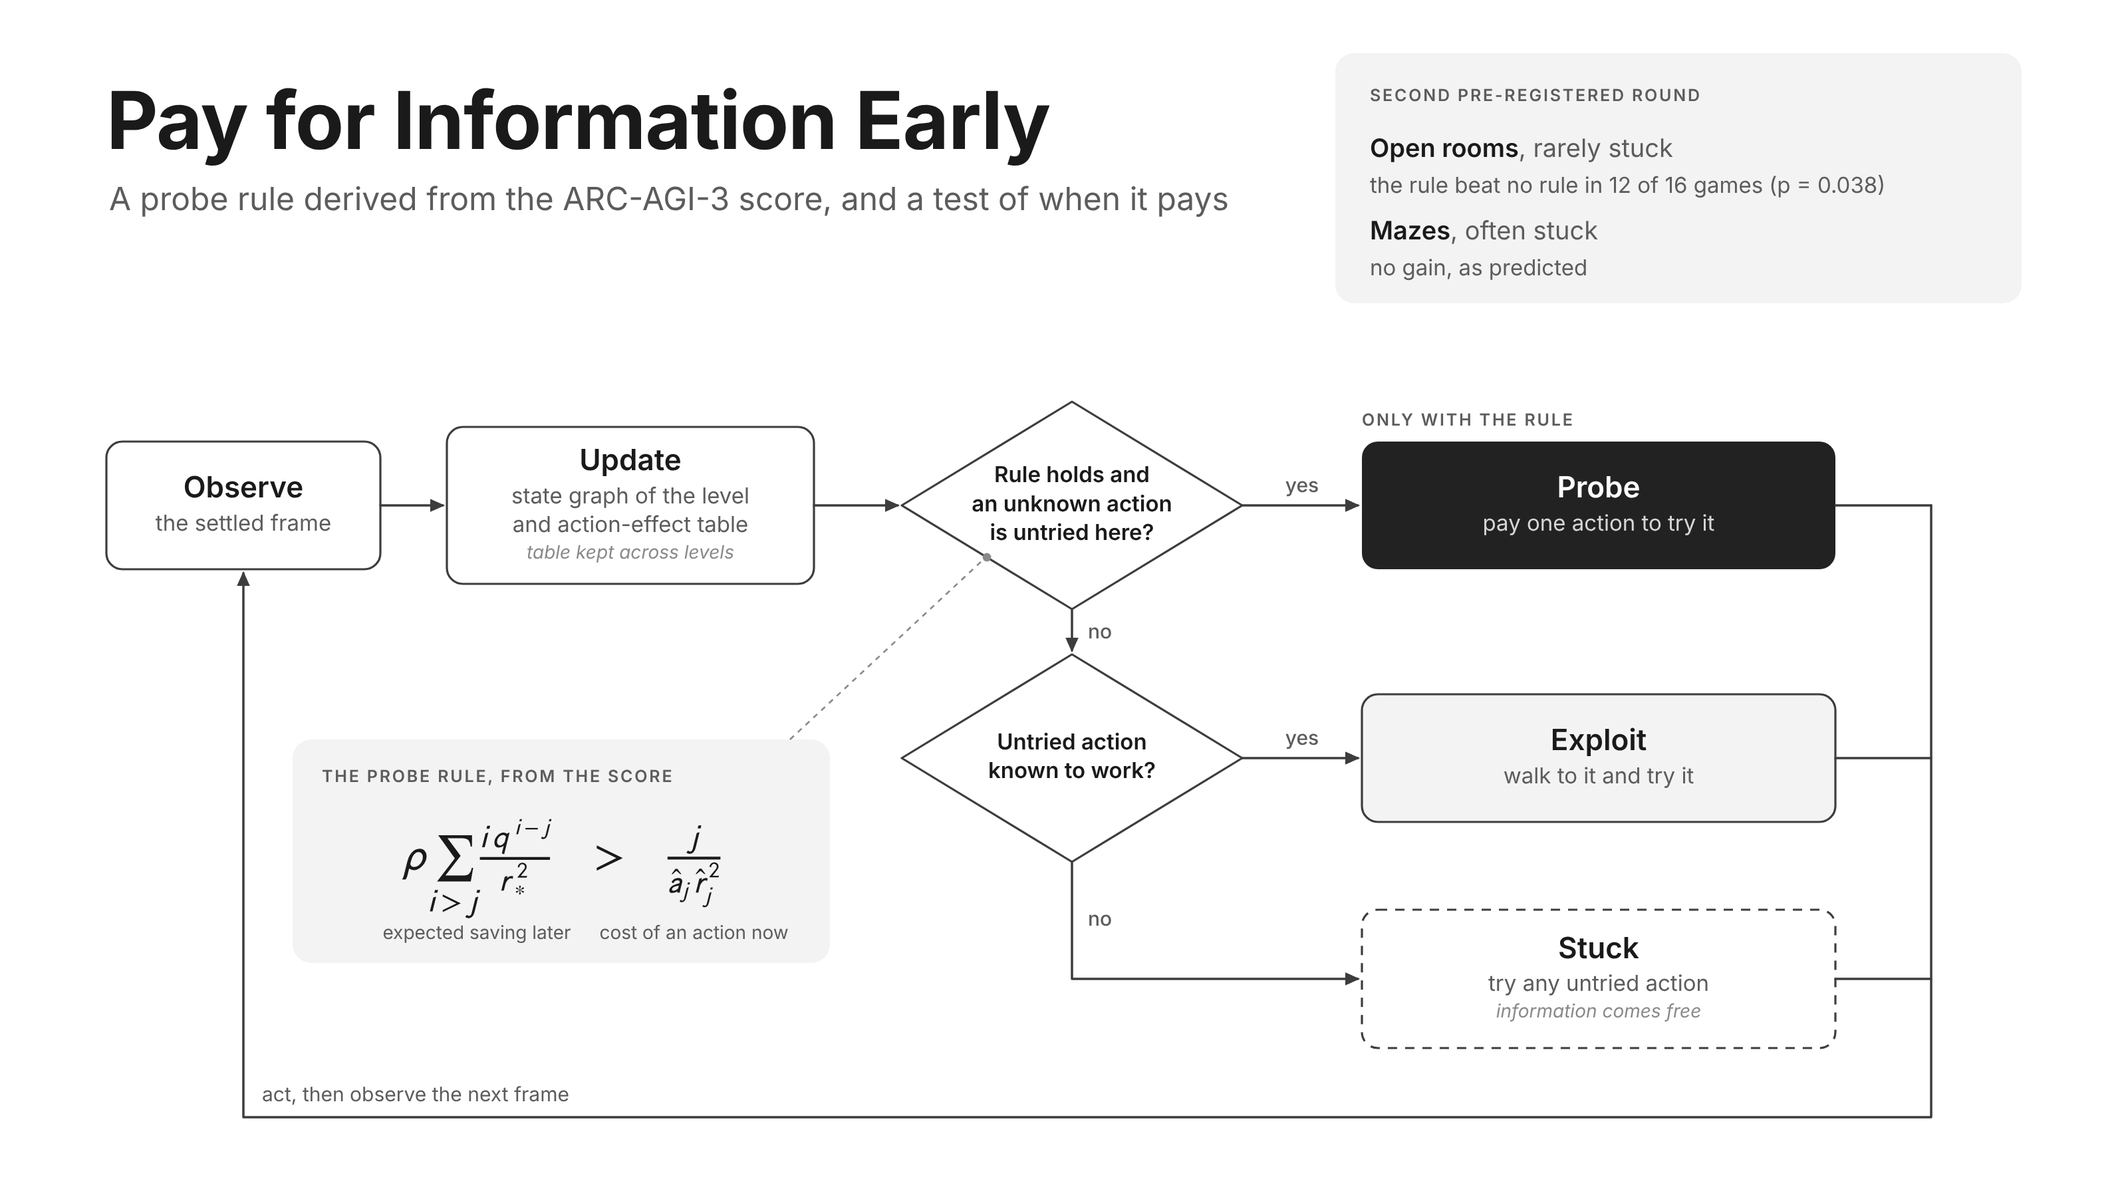
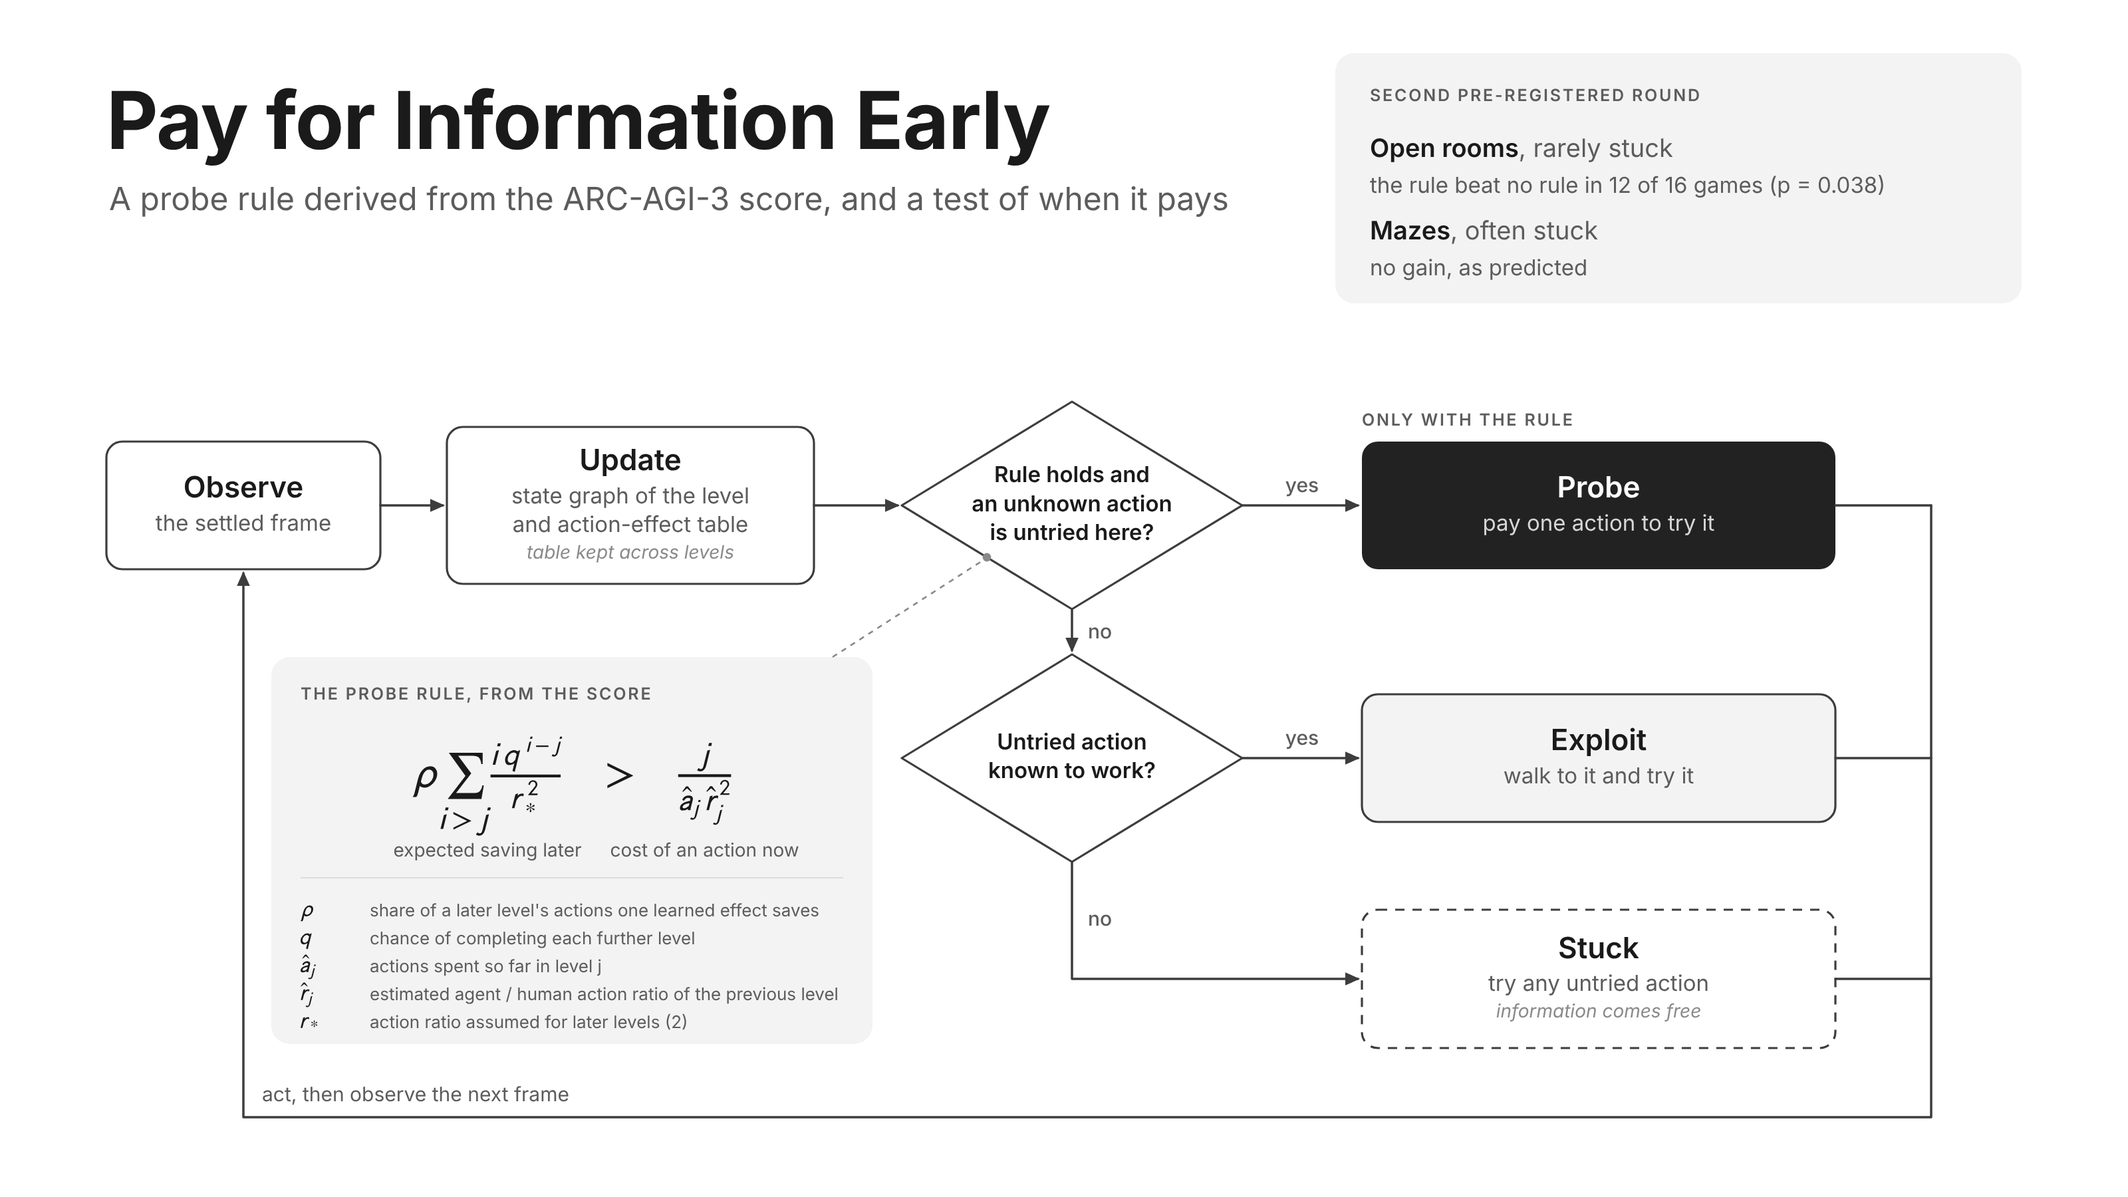
Add the technical appendix and a symbol legend to Figure 1
docs/appendix.md holds Appendices A to H that the paper cites, with the
C' spending breakdown, C1 against C, where the room gain came from, the
room sizes added outside the registered candidates, and how the
registration was kept. Figure 1 now defines every symbol of the rule.

Claude-Session: https://claude.ai/code/session_0148mrcjXrhuFDPAbLgMZrnR

Changed region(s): [[0.1562, 0.6222, 0.375, 0.8711], [0.1562, 0.56, 0.3125, 0.5911]]

diff --git a/figs/make_figure1.py b/figs/make_figure1.py
@@ -180,8 +180,17 @@ def build():
     rhs, rw, rt, rb = math_path(r"$\frac{j}{\hat{a}_j\,\hat{r}_j^{\,2}}$", 34)
     gap = 34
     total = lw + gap + gw + gap + rw
-    fx0, fy0, fh = 220, 556, 168
-    fw = 404
+    # symbols of the rule, defined under it so the figure stands alone
+    legend = [(r"$\rho$", "share of a later level's actions one learned effect saves"),
+              (r"$q$", "chance of completing each further level"),
+              (r"$\hat{a}_j$", "actions spent so far in level j"),
+              (r"$\hat{r}_j$", "estimated agent / human action ratio of the previous level"),
+              (r"$r_*$", "action ratio assumed for later levels (2)")]
+    row = 21
+    fx0, fy0, fw = 204, 494, 452
+    cap_y = fy0 + 150
+    rule_y = cap_y + 16
+    fh = rule_y - fy0 + 14 + row * len(legend) + 6
     el.append(box(fx0, fy0, fw, fh, fill=PANEL, stroke=None, rx=14))
     el.append(text(fx0 + 22, fy0 + 32, "THE PROBE RULE, FROM THE SCORE", 12.5, 600, INK2, spacing=1.4))
     x = fx0 + (fw - total) / 2
@@ -193,9 +202,14 @@ def build():
     x += gw + gap
     el.append(f'<path transform="translate({x:.1f},{base:.1f})" d="{rhs}" fill="{INK}"/>')
     rhs_c = x + rw / 2
-    cap_y = fy0 + fh - 18
     el.append(text(lhs_c, cap_y, "expected saving later", 14, 400, INK2, "middle"))
     el.append(text(rhs_c, cap_y, "cost of an action now", 14, 400, INK2, "middle"))
+    el.append(f'<path d="M{fx0 + 22} {rule_y} L{fx0 + fw - 22} {rule_y}" stroke="#dcdcdc" stroke-width="1"/>')
+    for k, (sym, desc) in enumerate(legend):
+        yb = rule_y + 14 + row * (k + 1) - 6
+        path, sw_, st, sb = math_path(sym, 17.5)
+        el.append(f'<path transform="translate({fx0 + 22:.1f},{yb:.1f})" d="{path}" fill="{INK}"/>')
+        el.append(text(fx0 + 74, yb, desc, 13, 400, INK2))
     # dashed leader to the diamond's lower-left edge
     ex, ey = dcx - hw / 2, y1 + hh / 2
     el.append(f'<path d="M{fx0 + fw - 30:.1f} {fy0:.1f} L{ex - 4:.1f} {ey + 3:.1f}" stroke="{MUTED}" '

diff --git a/docs/appendix.md b/docs/appendix.md
@@ -1,0 +1,100 @@
+# Technical appendix
+
+Appendix to *Pay for Information Early: a probe rule derived from the ARC-AGI-3 score, and a test of when it pays* (ARC Prize 2026 Paper Track). The paper cites these sections as Appendix A to H. Reference numbers follow the paper's list, repeated at the end.
+
+## A. Interaction protocol notes
+
+- Frames are grids up to 64x64 with values 0-15, and one response can carry several frames when the game animates before settling ([game schema](https://docs.arcprize.org/game-schema)). The agent plans on the settled frame and keeps transient frames as evidence.
+- On GAME_OVER only RESET is accepted ([actions](https://docs.arcprize.org/actions.md)). RESET after at least one action restarts the current level, while RESET with no action since the last level transition restarts the whole game, so two consecutive RESETs are forbidden ([RESET](https://docs.arcprize.org/api-reference/commands/start-or-reset-game-instance.md)). Each in-play RESET is counted as one action, as in Tycho [3] and Rodionov [8].
+- `available_actions` restricts the action set each turn, and ACTION6 availability does not reveal which coordinates are active ([actions](https://docs.arcprize.org/actions.md)). Coordinates are (x, y) with (0, 0) at the top left.
+- `win_levels` in each frame states the level threshold for a win, so the agent should know the number of levels L, and hence the level weights, in advance ([API reference](https://docs.arcprize.org/api-reference/commands/execute-simple-action-1.md)).
+- A free ARC API key unlocks all 25 public games ([available games](https://docs.arcprize.org/available-games.md)). After the first download, games are cached and local runs are offline ([starter kit](https://docs.arcprize.org/arc-prize-2026)).
+- The agent acts only through the documented actions and does not rely on engine bugs. Human baselines are used only for scoring; the agent never reads them.
+
+## B. Base agent
+
+- State graph: a node is the hash of the settled frame (status-bar lines blanked) plus the available actions; an edge is an (action, click target) transition. Untried actions at the current node come first; otherwise the agent follows the shortest known path to the nearest node with untried actions. RESET is a virtual edge back to the level start, used only when it is shorter by more than 10 actions, and never when no action has been taken since the level started, because that RESET restarts the whole game.
+- Click targets: 4-connected single-color components of unmasked cells, at most 48 per state, one click per component. Five priority tiers after [11], with our own rules: 0, a compact component (fill at least 0.5) of a rare color (at most 34% of the foreground area); 1, any other non-background component; 2, components of 2 pixels or fewer; 3, non-background components larger than 1/8 of the frame, and background pockets; 4, large background regions. A level-wide threshold admits a lower tier only when nothing at the current threshold is left to try anywhere reachable, and only if raising it finds something.
+- Status bars: border lines leave the state identity when (1) their color histogram changes in at least 75% of transitions (counters, energy bars), (2) they show the same content at the same step count in two lives that took different actions (clocks), or (3) after a RESET they are the only lines that differ from the level start (lives displays). Statistics restart whenever the mask grows.
+- Restarts and move budgets: a frame that returns to the level start after an ordinary action, up to masked lines, is a restart by the game. Lives that end at nearly the same length (8 actions or more) through two or more different state-action pairs reveal a move budget; such ends are not blamed on the last action, and planning prefers frontiers reachable within the budget. An action that ends a life four times, or the game twice from the same state, is given up.
+
+## C. Action-effect table
+
+- Type key: ACTION1-5 by id; a click by the clicked component's color and shape (bounding box, size, shape hash). Components of the background color, or of any color above 34% of the foreground area, share one key per color (`c<color>:region`), because floor and walls are cut into new shapes whenever objects move; other components larger than 1/8 of the frame share `c<color>:big`.
+- Counts per type: transitions that changed the frame outside masked cells, that did not, and that reached a new state.
+- Classes: active (at least one change); no-op (no change in k = 2 clicks, or in k_simple = 4 tries of a simple action, since walls often block moves); unknown (otherwise). Candidates rank by class, then by novelty (the Laplace-smoothed share of a type's transitions that reached a new state), then by tier.
+- A rebuilds the table from the current level's transitions only; B, C, C1 and C' keep all of them.
+
+## D. Algorithm
+
+```text
+each step:
+    follow the current plan while it is still valid
+    probe = (C or C1: rule of Appendix E holds) or (C': probes so far < cumulative quota)
+    repeat:
+        S = untried actions here that are active (or unknown, if probe) within the tier threshold
+        if S is not empty:
+            if probe and S has unknown actions: take the most salient unknown one   (probe)
+            else: take the best ranked action in S                                  (exploit)
+        else if a path to a node with such actions exists: follow it
+        else if the threshold is below 4: raise it and repeat (kept only if this finds something)
+        else: stop
+    weak phase: try any untried action here, else walk to the nearest node that has one
+level end: r_hat = actions used in the level / shortest winning path in the level graph
+caps: 1,500 actions per level, 15,000 per game; every RESET counts as an action
+```
+
+## E. Probe rule
+
+Write the action ratio as r = a/h and assume a settled effect saves a fraction ρ of a later level's actions. Saving ρa_i actions in level i is worth (i/W)·2ρ/r_i², one action in level j costs (j/W)·2/(a_j r_j²), and level i is reached with probability q^(i−j). After W and the factor 2 cancel, a probe is taken when
+
+```latex
+\rho\sum_{i>j}\frac{i\,q^{\,i-j}}{r_*^{2}}\;>\;\frac{j}{\hat a_j\,\hat r_j^{2}}
+```
+
+â_j is the number of actions already spent in level j, r̂_j the efficiency proxy from the previous level (5.0 in level 1), r\* the target ratio for later levels (2.0), and q the completion rate of B on calibration games (levels completed over levels attempted). The left side shrinks as levels pass and the right side shrinks as a level drags on, so probes concentrate early. C1 is C with q = 1. C' is allotted as many probes as C used on the same game and seed, split evenly over the game's levels with unused quota carried forward. The quota of a level it never reaches lapses, and it cannot probe where nothing unknown is left, so it spent 61% of its allotment in rooms, 31% in mazes and 30% on the held-out real games (15.4 probes per room run against 25.2 for C). Unreached levels account for 89% of the unspent quota in rooms and all of it on real games; in mazes 70% of it lay in levels C' did reach, where the stuck agent had already tried the unknown actions.
+
+The discount did not help on average: C1 had a higher mean RHAE than C in rooms (0.590% against 0.580%), mazes (1.078% against 1.040%) and the held-out real games (0.093% against 0.079%), although C beat C1 in 6 of the 8 hardest rooms (H5).
+
+## F. Hyperparameters
+
+| Parameter | Value | How it was set |
+| --- | --- | --- |
+| k for clicks / k_simple for ACTION1-5 | 2 / 4 | fixed before the experiments |
+| Target ratio r\* / level-1 proxy r̂ | 2.0 / 5.0 | assumed |
+| ρ | rooms 1e-2, mazes 3e-4, real games 3e-4 | best of a five- or six-value grid on calibration games; for rooms the top of the grid (1e-4 to 1e-2) |
+| q (difficulty 1 to 4) | rooms 1.000, 0.640, 0.550, 0.357; mazes 1.000, 0.923, 0.654, 0.182; real games 0.5 | B on calibration games |
+| Action caps | 1,500 per level, 15,000 per game | per-level cap as in [8] |
+| Click candidates per state / RESET penalty | 48 / 10 actions | fixed |
+| Status-bar threshold | 0.75 | fixed |
+| Seeds | 3 for calibration, 5 for evaluation, shared across configurations so runs are paired | fixed |
+
+The Kaggle submission runs C with ρ = 3e-4 and q = 0.5, the values calibrated on the 15 public design games.
+
+## G. Logging
+
+Each step logs the step, level, actions in the level, action, click coordinates, type key, reason (probe, exploit, navigate, retry or reset), effect, class, table size, probes in the level and in total, r̂, node and game state. summary.jsonl holds per-level statistics. Figure 3 and the mechanism tables come from these logs.
+
+## H. Synthetic suites and round history
+
+- Mazes (scripts/make_synthetic.py): six levels of random perfect n×n mazes, n = 6, 8, 10, 12, with the exit at the far end. In levels 1 and 2 the door closes a side branch; from level 3 it sits on the main path, 55 to 80% of the way to the exit. Switch and decoys sit on wall tiles next to reachable floor. Evaluation instances 00-03 (round 1) and 10-13 (round 2), calibration 05-07.
+- Rooms (scripts/make_rooms.py): six levels of open n×n rooms, n = 12, 16, 20, 28, chosen by a B-only pilot on calibration instances to match q of about 1.0, 0.85, 0.6 and 0.25. The registration listed candidates n = 6 to 20; none came near 0.25, so 22 to 28 were added before calibration and 28 (q = 0.357) was the closest. The avatar starts near the centre with four open directions; the exit sits in a walled pen in a random corner with two entrances, one closed by the door, and the other is open in levels 1 and 2 only. Switch and decoys sit on the outer wall. Evaluation instances 00-03, calibration 05-07. scripts/verify_synthetic.py replays every level's shortest solution.
+- Round 1 (mazes, instances 00-03, seeds 10-14): H1 passed (0.55); H2 failed (C beat C' in 3 of 10 untied games); H4 failed (Spearman −0.07); H5 below criterion (3 of 8). Two bugs: the click threshold rose to its maximum at the first action of every game, and floor and wall pieces received a new type at every state, so most of C's 83 probes per run were clicks on floor, walls and the border (56 of 67 in one replayed run), and C' spent 17% of its allotment.
+- Mechanism (rooms, replayed with step logs, identical to the evaluation runs): B knew all four moves after level 1 in 33 of 80 runs (9, 13, 11 and 0 of 20 by size) and never used the switch before level 3; C knew all four moves within its first 17 actions and used the switch in level 1 in all 80 runs.
+- Ablation (exploratory; rooms without a door in levels 1 and 2, all agents starting with the four moves; 240 runs): C cleared level 3 in 20 of 20 runs in 16x16 rooms against 5 of 20 for B, and 10 of 20 against 0 of 20 in 20x20 rooms; C beat B on levels 3 to 6 in 12 of 14 untied games and in total RHAE in 9 of 16 (mean 1.147 against 0.783).
+- Where the room gain came from: two thirds of C's mean RHAE gain over B (0.31 of 0.47 points) came in levels 1 and 2, and level 1 alone gave 29%; in 28x28 rooms all of it did. With ρ = 1e-2, the top of its calibration grid, the rule held from the first action in 130 of 288 room level-plays and within six actions in 189 of the 248 that were not a game's last level (computed from the rule and the per-level statistics in runs/syn_rooms_confirm). The room results therefore test early probing more than the rule's exact threshold.
+- Registration: the predictions and decision rules of both rounds were written in a dated working document before the runs; docs/registration_ko.md reproduces them as written (in Korean). It is not a public registry, and this repository was created after the runs.
+
+## References
+
+1. ARC Prize Foundation (2026). [ARC-AGI-3: A New Challenge for Frontier Agentic Intelligence](https://arxiv.org/html/2603.24621v1). arXiv:2603.24621.
+2. ARC Prize. [ARC-AGI-3 Scoring Methodology](https://docs.arcprize.org/methodology).
+3. Lehmann, J., Aioanei, A., Vahdati, S. (2026). [Tycho: Active Abstraction with Programmatic World Models for ARC-AGI-3](https://arxiv.org/html/2607.28287). arXiv:2607.28287.
+4. Zeng, G. et al. (2026). [Schema: Discovering Unknown Environments via Agentic Program Induction](https://arxiv.org/pdf/2609.39140). arXiv:2609.39140.
+5. Wu, W. (2026). [Kepler: Auditable World Models for ARC-AGI-3](https://arxiv.org/pdf/2610.00834). arXiv:2610.00834.
+6. Tufa Labs (2026). [The Duck: ARC-AGI-3 inference harness](https://github.com/Tufalabs/duck-harness), winning solution to ARC-AGI-3 Milestone 1.
+7. Tang, H., Key, D., Ellis, K. (2024). [WorldCoder, a Model-Based LLM Agent: Building World Models by Writing Code and Interacting with the Environment](https://arxiv.org/abs/2402.12275). NeurIPS 2024.
+8. Rodionov, S. (2026). [Executable World Models for ARC-AGI-3 in the Era of Coding Agents](https://arxiv.org/html/2605.05138v2). arXiv:2605.05138.
+9. Courtis, D., Li, W., Sanner, S. (2026). [OPINE-World: Programmatic World Modeling with Ontology-error-Prioritized Interactive Exploration for ARC-AGI-3](https://arxiv.org/html/2607.01531v2). arXiv:2607.01531.
+10. Liew, K. H. (2026). [Explore Before You Solve: The Speed-Depth Trade-off in Epistemic Agents for ARC-AGI-3](https://arxiv.org/pdf/2605.25931). arXiv:2605.25931.
+11. Rudakov, E., Shock, J., Cowley, B. U. (2025). [Graph-Based Exploration for ARC-AGI-3 Interactive Reasoning Tasks](https://arxiv.org/abs/2512.24156). arXiv:2512.24156.

diff --git a/README.md b/README.md
@@ -6,6 +6,7 @@ This repository holds the agent, the synthetic game suites, the results of every
 
 - Paper: Kaggle Writeup, ARC Prize 2026 Paper Track (link added after submission)
 - Code submission: ARC-AGI-3 Kaggle notebook (link added after submission)
+- Technical appendix (A to H, cited by the paper): [docs/appendix.md](docs/appendix.md)
 
 ![One step of the agent](figs/figure1_agent_loop.png)
 
@@ -37,6 +38,8 @@ Second pre-registered round, 16 evaluation games per suite, five seeds each. Gam
 - Two trivial controls, R (repeat an action until the frame stops changing) and K (click every object once), completed no level in any synthetic game (320 runs). On the 10 held-out public games they completed 8 levels in 100 runs, all by K in one click game (vc33), while B and C completed 31 and 36 levels in 50 runs each.
 - Kaggle (ARC-AGI-3 public leaderboard): the submitted agent, C with rho = 3e-4 and q = 0.5, scores 0.37 (RHAE in percent).
 - On the 10 held-out public games, calibrated on the other 15 (rho = 3e-4, q = 0.5), C was no better than B or C' (mean RHAE 0.082% for B, 0.079% for C, 0.110% for C'). The agent completes under one level per game there, so H1 could not be tested.
+- C' could not spend its whole allotment, because the quota of a level it never reached lapsed and, in mazes, little was left unknown: it used 61% in rooms, 31% in mazes and 30% on real games (Appendix E). C1 (q = 1) had a slightly higher mean RHAE than C in both suites and on real games.
+- Two thirds of C's room gain over B came in levels 1 and 2, and with rho at the top of its grid the rule held within six actions in most room levels, so the rooms test early probing more than the rule's exact threshold (Appendix H).
 - Exploratory follow-ups: in rooms, most of C's gain came from learning its four moves early rather than from the designed switch (step-log replays). An ablation that gives every agent its moves and removes the door before level 3 isolates the switch: C beat B on levels 3 to 6 in 12 of 14 untied games, but level-1 probe costs offset this in total RHAE (C above B in 9 of 16).
 
 The first round (mazes only) failed H2 and H4 because of two bugs: the click-priority threshold rose to its maximum at the first action of every game, and floor and wall pieces got a new type key at every state, so most probes went to floor tiles. Its agent is kept in `archive/round1/` and its results in `runs/syn_r1_*`.
@@ -53,6 +56,7 @@ synthetic/               the generated suites, in the local ARC-AGI-3 game forma
   rooms_ablation/        rooms evaluation games without a door before level 3
 runs/                    one results.jsonl per run (plus console.log where kept)
 figs/                    figures 1 to 3, the level-3 replay GIF and the scripts that draw them
+docs/appendix.md         technical appendix A to H (protocol, agent, rule, hyperparameters, suites, history)
 docs/registration_ko.md  the pre-registration record (Korean, as written before the runs)
 archive/round1/          the round-1 agent and its q values
 splits.json              frozen design / held-out split of the 25 public games
